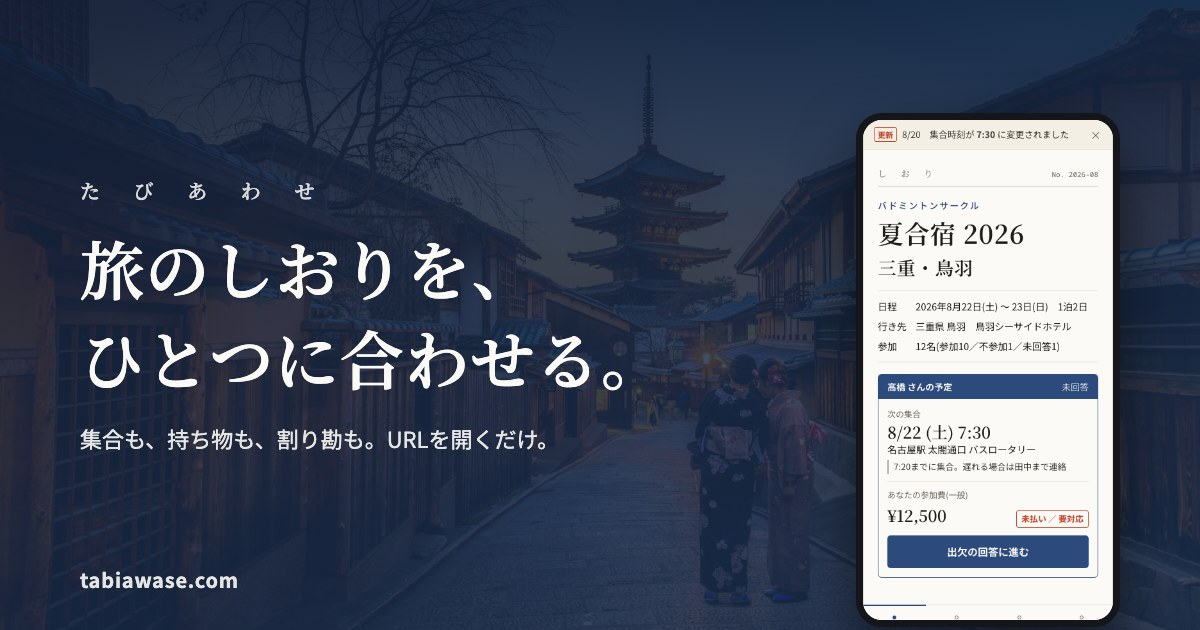
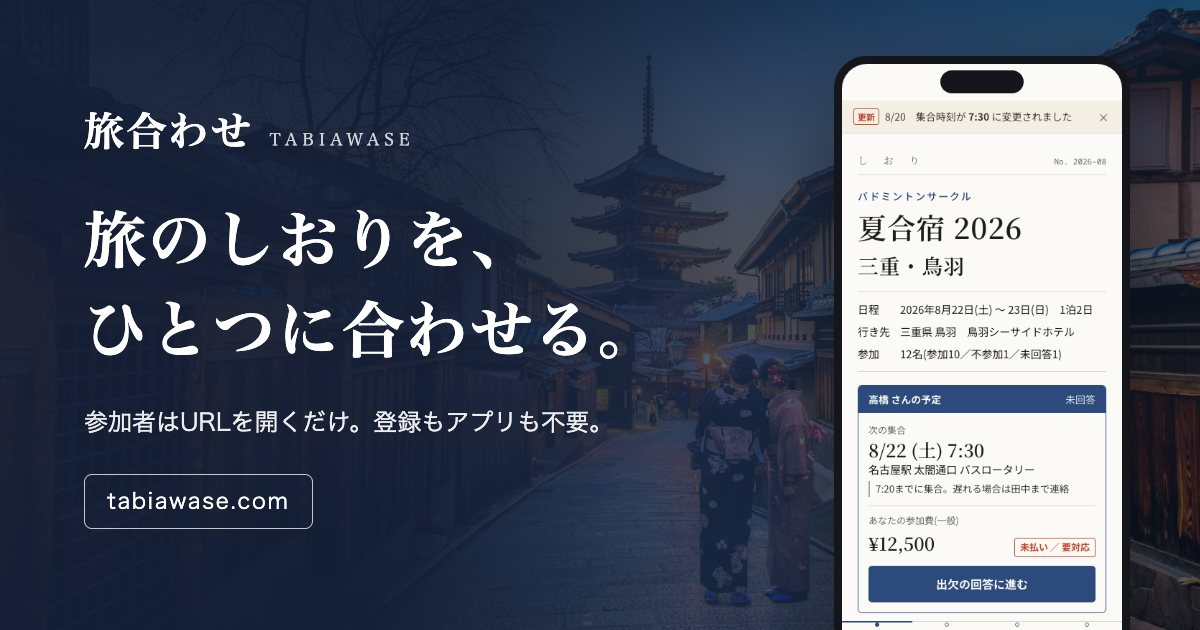
OGP画像を新モックアップで再生成+staffKeyをD1カラムに分離
- og.jpg: 実機フレーム焼き込みのapp-cover.pngを使った1200×630に刷新
- staffKey(点呼スタッフ用キー)をdoc JSON内からdocs.staff_keyカラムへ移行
  - 幹事が文書をpushするとstaffKeyが消え、スタッフの点呼が403になる
    競合があった(設計負債として記録済みだったもの)
  - verify-pin/点呼PUTはカラムを正とし、旧形式(doc内)からは自己修復で引き上げ
  - 保存時にdoc JSONからstaffKeyを除去(複製で別ツアーに引き継がれるのも防止)
  - migrations/0001-staff-key.sql をローカル/本番D1に適用済み
- 検証: sync-test 22項目 / flow-test 63項目 ALL PASS(ローカル)、
  本番スモークで「幹事push後もスタッフ点呼200」を確認

diff --git a/server/src/index.ts b/server/src/index.ts
@@ -140,6 +140,16 @@ async function requireAdmin(env: Env, slug: string, request: Request): Promise<R
   return null
 }
 
+/** 保存前にdoc JSONからstaffKeyを取り除く(正はdocs.staff_keyカラム)。
+ *  旧クライアントが持ち込んだ値は返してカラムへの引き継ぎ判断に使う。 */
+function stripStaffKey(doc: Record<string, unknown>): string | null {
+  const sec = doc.security as { staffKey?: unknown } | undefined
+  if (!sec || !('staffKey' in sec)) return null
+  const key = typeof sec.staffKey === 'string' ? sec.staffKey : null
+  delete sec.staffKey
+  return key
+}
+
 async function handleApi(request: Request, env: Env, url: URL): Promise<Response> {
   const path = url.pathname
   const method = request.method
@@ -160,6 +170,8 @@ async function handleApi(request: Request, env: Env, url: URL): Promise<Response
         ? body.adminKey
         : null
     const adminKey = clientKey ?? crypto.randomUUID()
+    // 新規作成(複製含む)はスタッフキーを引き継がない=初回PIN照合で新規発行
+    stripStaffKey(doc as Record<string, unknown>)
     await env.DB.prepare(
       'INSERT INTO docs (slug, doc, admin_key, updated_at) VALUES (?, ?, ?, ?)',
     )
@@ -190,8 +202,12 @@ async function handleApi(request: Request, env: Env, url: URL): Promise<Response
       const body = (await readJson(request)) as { doc?: unknown } | null
       if (!body || !isDocShape(body.doc) || body.doc.slug !== slug) return err('invalid doc', 400)
       const updatedAt = Date.now()
-      await env.DB.prepare('UPDATE docs SET doc = ?, updated_at = ? WHERE slug = ?')
-        .bind(JSON.stringify(body.doc), updatedAt, slug)
+      // 旧クライアントがdoc内に持つstaffKeyはカラム未設定の場合のみ引き継ぐ
+      const pushedStaffKey = stripStaffKey(body.doc as Record<string, unknown>)
+      await env.DB.prepare(
+        'UPDATE docs SET doc = ?, updated_at = ?, staff_key = COALESCE(staff_key, ?) WHERE slug = ?',
+      )
+        .bind(JSON.stringify(body.doc), updatedAt, pushedStaffKey, slug)
         .run()
       return json({ slug, updatedAt })
     }
@@ -301,10 +317,25 @@ async function handleApi(request: Request, env: Env, url: URL): Promise<Response
     const staffHeader = request.headers.get('x-staff-key')
     let allowed = false
     if (staffHeader) {
-      const row = await env.DB.prepare('SELECT doc FROM docs WHERE slug = ?').bind(slug).first<{ doc: string }>()
+      const row = await env.DB.prepare('SELECT staff_key, doc FROM docs WHERE slug = ?')
+        .bind(slug)
+        .first<{ staff_key: string | null; doc: string }>()
       if (!row) return err('not found', 404)
-      const doc = JSON.parse(row.doc) as { security?: { staffKey?: string } }
-      allowed = !!doc.security?.staffKey && doc.security.staffKey === staffHeader
+      allowed = !!row.staff_key && row.staff_key === staffHeader
+      if (!allowed && !row.staff_key) {
+        // 旧形式(doc JSON内保存)からの自己修復: 一致したらカラムに引き上げる
+        try {
+          const doc = JSON.parse(row.doc) as { security?: { staffKey?: string } }
+          if (!!doc.security?.staffKey && doc.security.staffKey === staffHeader) {
+            allowed = true
+            await env.DB.prepare('UPDATE docs SET staff_key = ? WHERE slug = ?')
+              .bind(staffHeader, slug)
+              .run()
+          }
+        } catch {
+          // 壊れた文書は幹事キー側の判定に回す
+        }
+      }
     }
     if (!allowed) {
       const forbidden = await requireAdmin(env, slug, request)
@@ -351,19 +382,19 @@ async function handleApi(request: Request, env: Env, url: URL): Promise<Response
     const slug = pinMatch[1] as string
     const body = (await readJson(request)) as { pin?: unknown } | null
     if (!body || typeof body.pin !== 'string') return err('invalid body', 400)
-    const row = await env.DB.prepare('SELECT doc FROM docs WHERE slug = ?').bind(slug).first<{ doc: string }>()
+    const row = await env.DB.prepare('SELECT doc, staff_key FROM docs WHERE slug = ?')
+      .bind(slug)
+      .first<{ doc: string; staff_key: string | null }>()
     if (!row) return err('not found', 404)
     const doc = JSON.parse(row.doc) as { security?: { adminPin?: string; staffKey?: string } }
     const pin = doc.security?.adminPin
     if (!pin || body.pin.trim() !== pin) return err('wrong pin', 403)
-    // スタッフキーが無ければ発行して文書に保存(全スタッフで共有される)
-    let staffKey = doc.security?.staffKey
-    if (!staffKey) {
-      staffKey = crypto.randomUUID()
-      doc.security = { ...doc.security, staffKey }
-      await env.DB.prepare('UPDATE docs SET doc = ? WHERE slug = ?')
-        .bind(JSON.stringify(doc), slug)
-        .run()
+    // スタッフキーはstaff_keyカラムで管理(doc内だと幹事のpushで消えるため)。
+    // 旧形式(doc内)のキーがあれば引き継いで既存スタッフ端末を無効化しない
+    let staffKey = row.staff_key ?? doc.security?.staffKey
+    if (!staffKey) staffKey = crypto.randomUUID()
+    if (staffKey !== row.staff_key) {
+      await env.DB.prepare('UPDATE docs SET staff_key = ? WHERE slug = ?').bind(staffKey, slug).run()
     }
     return json({ ok: true, staffKey })
   }

diff --git a/src/lib/types.ts b/src/lib/types.ts
@@ -15,7 +15,7 @@ export interface Member {
 export interface SecuritySettings {
   adminPin?: string // 管理画面(/manage)のロック。空なら無効
   hasPin?: boolean // 公開doc用: PINの有無だけ(実PINはサーバーが秘匿)
-  staffKey?: string // 点呼書き込み用スタッフキー(サーバー発行。公開docには含まれない)
+  staffKey?: string // (旧)スタッフキーはサーバーのstaff_keyカラム管理に移行。保存時に除去される
   requireVerify?: boolean // (旧)ツアーは常時照合になったため未使用
   privateRoster?: boolean // (旧)ツアーは常時非公開になったため未使用
 }
